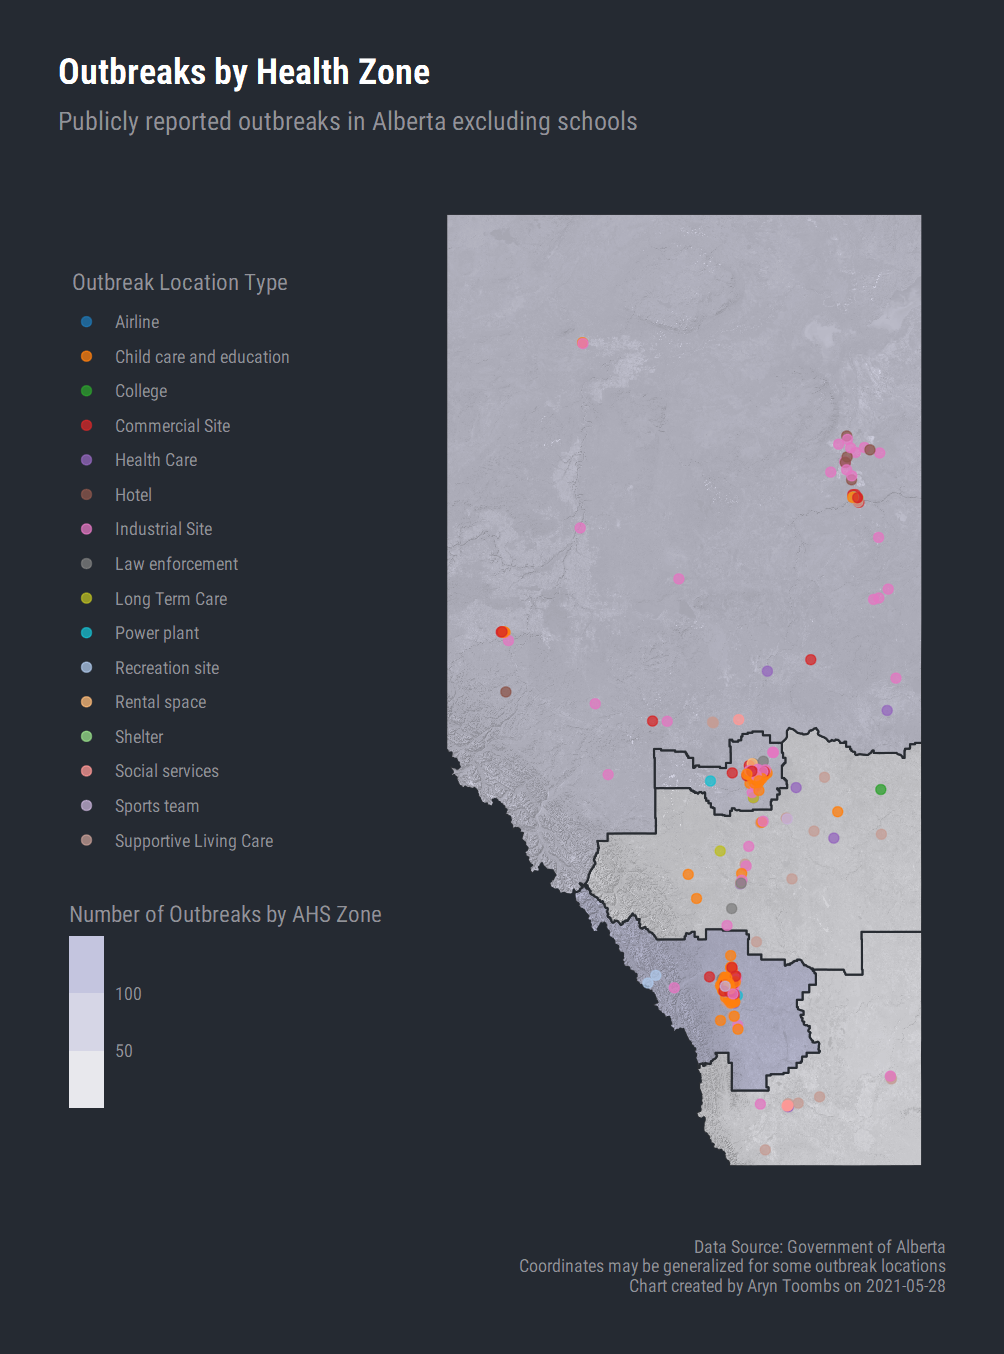
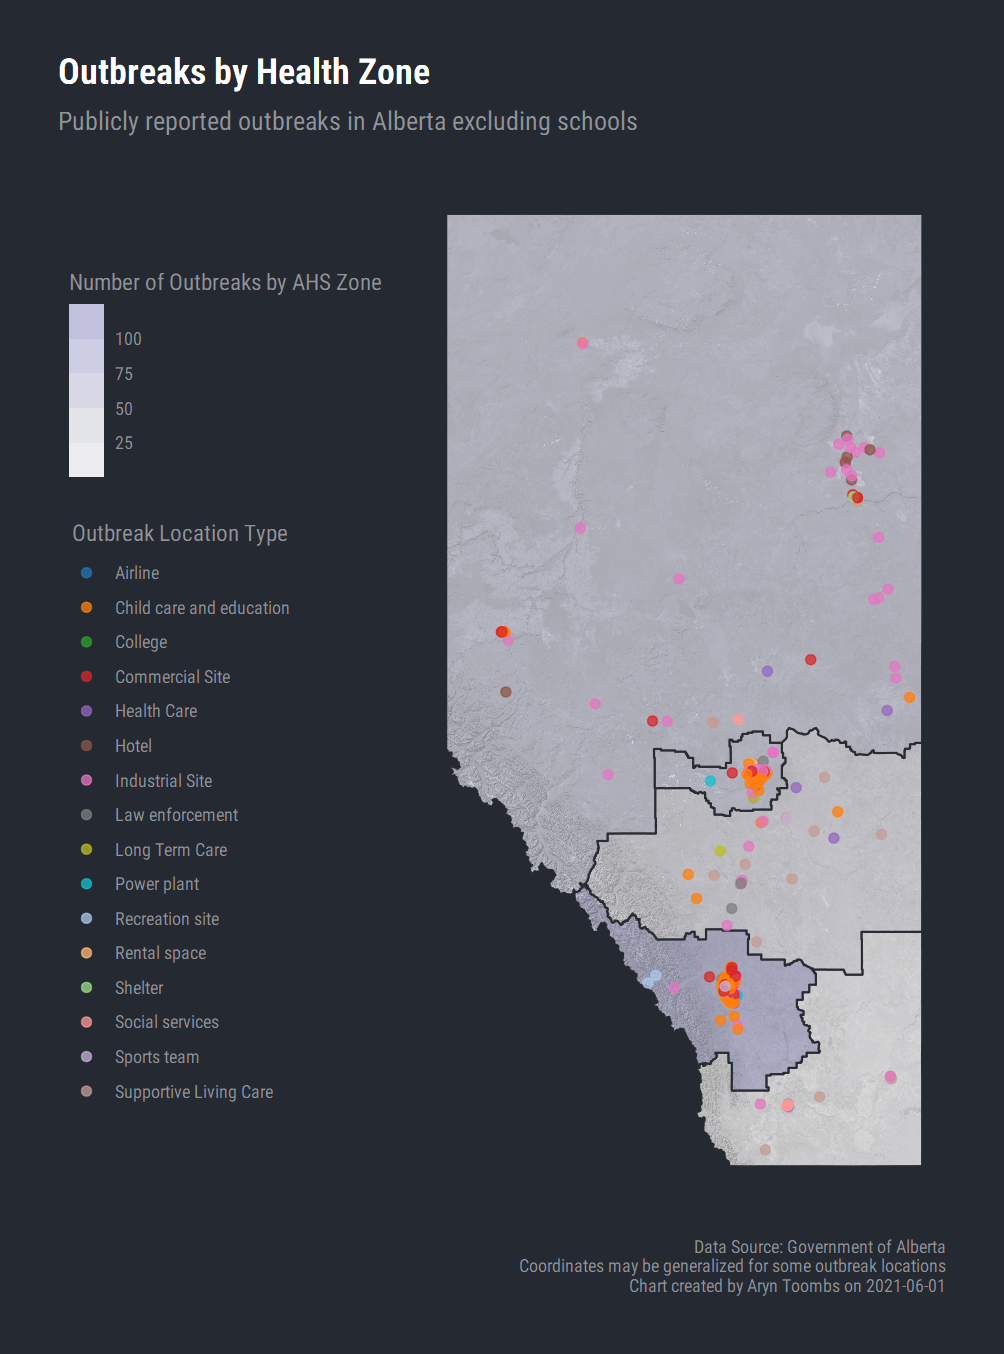
web

diff --git a/outbreaks/index.html b/outbreaks/index.html
@@ -162,7 +162,7 @@
       Calgary Zone
     </div>
     <div class="row box-bottom justify-content-center">
-      <h4>139</h4>
+      <h4>125</h4>
     </div>
   </div>
   <div class="col-sm ml-1 mr-1">
@@ -170,7 +170,7 @@
       Edmonton Zone
     </div>
     <div class="row box-bottom justify-content-center">
-      <h4>60</h4>
+      <h4>54</h4>
     </div>
   </div>
   <div class="col-sm ml-1 mr-1">
@@ -178,7 +178,7 @@
       South Zone
     </div>
     <div class="row box-bottom justify-content-center">
-      <h4>11</h4>
+      <h4>10</h4>
     </div>
   </div>
   <div class="col-sm ml-1 mr-1">
@@ -186,7 +186,7 @@
       Central Zone
     </div>
     <div class="row box-bottom justify-content-center">
-      <h4>30</h4>
+      <h4>28</h4>
     </div>
   </div>
   <div class="col-sm ml-1 mr-1">
@@ -199,7 +199,7 @@
   </div>
 </div>
 <div class="row mb-3 pr-1 pt-1 justify-content-end">
-  <p class="m-1"><i class="bi bi-info-circle-fill"></i> Covid-19 outbreaks (not including schools, see below) current as of Fri, May 28, 2021. AHS non-school outbreak data updated on Tuesdays and Fridays.</p>
+  <p class="m-1"><i class="bi bi-info-circle-fill"></i> Covid-19 outbreaks (not including schools, see below) current as of Tue, Jun 01, 2021. AHS non-school outbreak data updated on Tuesdays and Fridays.</p>
 </div>
   <div class="row pl-3">
     <h4 class="body-display">Outbreak Charts</h4>
